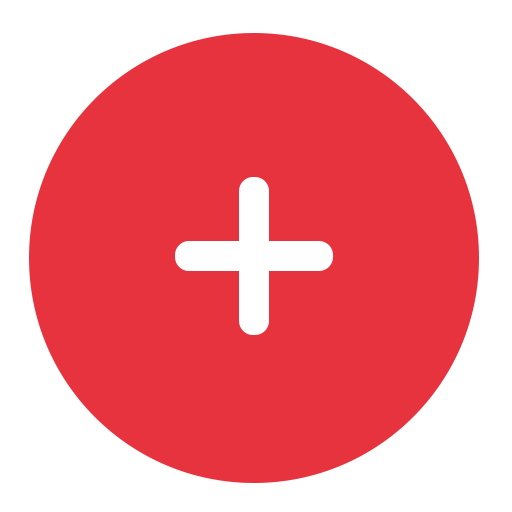
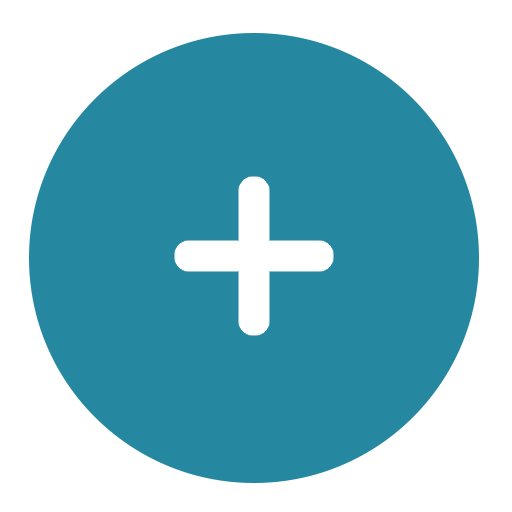
deploy v3.14.10 corporate -> change to appsa

diff --git a/workspace/web_corporate/src/helper/GympinTheme.js b/workspace/web_corporate/src/helper/GympinTheme.js
@@ -29,122 +29,122 @@ export const GympinTheme = createTheme({
         light: {
             palette: {
                 primary: {
-                    light: '#f14651',
-                    main: '#e7333e',
-                    dark: '#b22828',
-                    darker: '#bb2e2e',
-                    contrastText: '#eadfdf',
-                    boxBg: '#eed6d6',
-                    otherText: '#2f0404',
+                    light: "#2b2b2b",
+                    main: "#1c8b9c",
+                    dark: "#116364",
+                    darker: "#104f59",
+                    contrastText: "#eadfdf",
+                    boxBg: "#eed6d6",
+                    otherText: "#062126",
                 },
                 secondary: {
-                    light: '#46f1c3',
-                    main: '#24b78f',
-                    dark: '#1f9a83',
-                    darker: '#147952',
-                    contrastText: '#e5efec',
-                    boxBg: '#b0dccb',
-                    otherText: '#246e55',
+                    light: "#46f1c3",
+                    main: "#24b78f",
+                    dark: "#1f9a83",
+                    darker: "#147952",
+                    contrastText: "#e5efec",
+                    boxBg: "#b0dccb",
+                    otherText: "#246e55",
                 },
                 tertiary: {
-                    light: '#4487de',
-                    main: '#2c67b2',
-                    dark: '#21589b',
-                    darker: '#194681',
-                    contrastText: '#e0e4e8',
-                    boxBg: '#a0bce0',
-                    otherText: '#15355e',
+                    light: "#4487de",
+                    main: "#2c67b2",
+                    dark: "#21589b",
+                    darker: "#194681",
+                    contrastText: "#e0e4e8",
+                    boxBg: "#a0bce0",
+                    otherText: "#15355e",
                 },
                 quaternary: {
-                    light: '#c46625',
-                    main: '#854112',
-                    dark: '#72360d',
-                    darker: '#5e2e0a',
-                    contrastText: '#eae6e3',
-                    boxBg: '#d9c0b1',
-                    otherText: '#b28d73',
+                    light: "#c46625",
+                    main: "#854112",
+                    dark: "#72360d",
+                    darker: "#5e2e0a",
+                    contrastText: "#eae6e3",
+                    boxBg: "#d9c0b1",
+                    otherText: "#b28d73",
                 },
                 quinary: {
-                    light: '#8546f1',
-                    main: '#8533e7',
-                    dark: '#6628b2',
-                    darker: '#451479',
-                    contrastText: '#e0dbe7',
-                    boxBg: '#e8d9ff',
-                    otherText: '#1c0534',
+                    light: "#8546f1",
+                    main: "#8533e7",
+                    dark: "#6628b2",
+                    darker: "#451479",
+                    contrastText: "#e0dbe7",
+                    boxBg: "#e8d9ff",
+                    otherText: "#1c0534",
                 },
                 info: {
                     light: "#2a2a2a",
-                    main: '#484848',
-                    dark: '#3b7834',
-                    darker: '#4e8945',
-                    contrastText:'#5f9a56',
-                    lightChannel:"#876543",
-                    mainChannel:"#654321",
-                    darkChannel:"#543210",
-                    contrastTextChannel:"#987654",
-                }
+                    main: "#484848",
+                    dark: "#3b7834",
+                    darker: "#4e8945",
+                    contrastText: "#5f9a56",
+                    lightChannel: "#876543",
+                    mainChannel: "#654321",
+                    darkChannel: "#543210",
+                    contrastTextChannel: "#987654",
+                },
             },
         },
         dark: {
             palette: {
                 primary: {
-                    light: '#f14651',
-                    main: '#e7333e',
-                    dark: '#b22828',
-                    darker: '#79141a',
-                    contrastText: '#ffffff',
-                    boxBg: '#575757',
-                    otherText: '#b08585',
+                    light: "#1fb6b8",
+                    main: "#1c8b9c",
+                    dark: "#116364",
+                    darker: "#104f59",
+                    contrastText: "#ffffff",
+                    boxBg: "#575757",
+                    otherText: "#85a6b0",
                 },
                 secondary: {
-                    light: '#208c3a',
-                    main: '#126927',
-                    dark: '#074112',
-                    darker: '#04280d',
-                    contrastText: '#68bdb3',
-                    boxBg: '#04280d',
-                    otherText: '#6fb6af',
+                    light: "#208c3a",
+                    main: "#126927",
+                    dark: "#074112",
+                    darker: "#04280d",
+                    contrastText: "#68bdb3",
+                    boxBg: "#04280d",
+                    otherText: "#6fb6af",
                 },
                 tertiary: {
-                    light: '#2c67b2',
-                    main: '#1b4981',
-                    dark: '#143f75',
-                    darker: '#0e2f57',
-                    contrastText: '#b3c4d9',
-                    boxBg: '#0a2444',
-                    otherText: '#68819f',
+                    light: "#2c67b2",
+                    main: "#1b4981",
+                    dark: "#143f75",
+                    darker: "#0e2f57",
+                    contrastText: "#b3c4d9",
+                    boxBg: "#0a2444",
+                    otherText: "#68819f",
                 },
 
                 quaternary: {
-                    light: '#a8561d',
-                    main: '#854112',
-                    dark: '#652f0d',
-                    darker: '#4b2109',
-                    contrastText: '#d9ad92',
-                    boxBg: '#421e05',
-                    otherText: '#8c6767',
+                    light: "#a8561d",
+                    main: "#854112",
+                    dark: "#652f0d",
+                    darker: "#4b2109",
+                    contrastText: "#d9ad92",
+                    boxBg: "#421e05",
+                    otherText: "#8c6767",
                 },
                 quinary: {
-                    light: '#51269d',
-                    main: '#451c8d',
-                    dark: '#330f72',
-                    darker: '#1d0842',
-                    contrastText: '#c9b6ea',
-                    boxBg: '#1d0842',
-                    otherText: '#907daf',
+                    light: "#51269d",
+                    main: "#451c8d",
+                    dark: "#330f72",
+                    darker: "#1d0842",
+                    contrastText: "#c9b6ea",
+                    boxBg: "#1d0842",
+                    otherText: "#907daf",
                 },
                 info: {
                     light: "#555555",
-                    main: '#bbbbbb',
-                    dark: '#333333',
-                    darker: '#222222',
-                    contrastText:'#cccccc',
-                    lightChannel:"#666666",
-                    mainChannel:"#444444",
-                    darkChannel:"#333333",
-                    contrastTextChannel:"#111111",
-                }
+                    main: "#bbbbbb",
+                    dark: "#333333",
+                    darker: "#222222",
+                    contrastText: "#cccccc",
+                    lightChannel: "#666666",
+                    mainChannel: "#444444",
+                    darkChannel: "#333333",
+                    contrastTextChannel: "#111111",
+                },
             },
         },
     },

diff --git a/workspace/web_corporate/src/helper/layouts/Layout.js b/workspace/web_corporate/src/helper/layouts/Layout.js
@@ -23,14 +23,14 @@ export default function Layout() {
             (
                 <Typography
                     variant="caption"
-                    sx={{m: 1, whiteSpace: 'nowrap', overflow: 'hidden'}}
-                >جیم پین
+                    sx={{m: 1, whiteSpace: 'nowrap', overflow: 'hidden'}}>
+                    اپــســا
                 </Typography>
             ) : (<Grid container justifyContent={"space-between"}>
                 <Typography
                     variant="caption"
-                    sx={{m: 1, whiteSpace: 'nowrap', overflow: 'hidden'}}
-                >{new Date().getFullYear()} ساخته شده در جیم پین ©
+                    sx={{m: 1, whiteSpace: 'nowrap', overflow: 'hidden'}}>
+                    {new Date().getFullYear()} ساخته شده در اپسا ©
                 </Typography>
                 <LogoutIcon/>
             </Grid>);

diff --git a/workspace/web_corporate/src/helper/App.js b/workspace/web_corporate/src/helper/App.js
@@ -44,7 +44,7 @@ function App(props) {
                                 theme={mode==='light'?GympinTheme.colorSchemes.light:GympinTheme.colorSchemes.dark}
                                 branding={{
                                     logo: <img src="/logo192.png" alt="MUI logo"/>,
-                                    title: 'جیم پین',
+                                    title: 'اپـسـا',
                                     homeUrl: '/dashboard',
                                 }}
 
